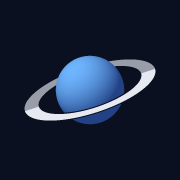
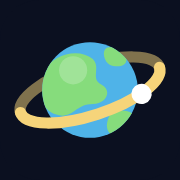
fix(game): 앱 아이콘을 사용자 파비콘 그림으로 맞추고, 업데이트 버튼은 "지금 업데이트"
- PNG 4개(192, 512, maskable 512, apple-touch 180)를 favicon.svg(ff36299, 사용자 요청)에서 다시 그렸다
- 그림이 다른 node:zlib 아이콘 스크립트는 뺐다. 만드는 법은 작업 기록 28-2040-pwa에
- favicon.svg도 미리 캐시에 넣는다(includeAssets)
- 버튼 문구는 korean-writing 규칙(버튼에 "~하기"류 안 붙임)에 맞췄다

Claude-Session: https://claude.ai/code/session_01PnZhNzUg4n6BbDPoRJcKA8

diff --git a/apps/game/vite.config.ts b/apps/game/vite.config.ts
@@ -28,7 +28,7 @@ export default defineConfig({
       registerType: "prompt",
       // 등록은 src/pwa/updates.ts에서 virtual:pwa-register로 직접 한다
       injectRegister: false,
-      includeAssets: ["favicon.ico", "apple-touch-icon-180x180.png"],
+      includeAssets: ["favicon.ico", "favicon.svg", "apple-touch-icon-180x180.png"],
       manifest: {
         id: "/",
         start_url: "/",
@@ -41,7 +41,7 @@ export default defineConfig({
         orientation: "any",
         theme_color: THEME_COLOR,
         background_color: THEME_COLOR,
-        // 임시 아이콘 — apps/game/scripts/placeholder-icons.mjs로 만든다
+        // 임시 아이콘 — public/favicon.svg에서 그린다(만드는 법: docs/worklog/2026/10/28-2040-pwa.md)
         icons: [
           { src: "pwa-192x192.png", sizes: "192x192", type: "image/png" },
           { src: "pwa-512x512.png", sizes: "512x512", type: "image/png" },

diff --git a/docs/worklog/2026/10/28-2040-pwa.md b/docs/worklog/2026/10/28-2040-pwa.md
@@ -10,7 +10,9 @@
   - `vite-plugin-pwa` `generateSW`. 캐시는 앱 껍데기만(JS·CSS·HTML·아이콘·manifest). 실행 중 캐시는 없다.
   - 화면 이동 대체(`index.html`)에서 `/api`·`/ws`·`/health`를 뺐다. 소셜 로그인 콜백이 화면 이동이라서다.
   - manifest 이름은 `messages/ko.json`에서 읽는다(`app_title`, 새 키 `app_short_name`·`app_description`).
-  - 임시 아이콘 5개를 `apps/game/public/`에 넣었다. 만드는 스크립트도 넣었다(`apps/game/scripts/placeholder-icons.mjs`, 의존성 없음).
+  - 임시 아이콘 4개(192, 512, maskable 512, apple-touch 180)를 `apps/game/public/`에 넣었다.
+    - 그림은 `favicon.svg`(행성 + 궤도 정거장 고리)에서 그렸다. 이 파비콘은 다른 세션("진행상황 체크")이 사용자 요청으로 먼저 올렸다(ff36299, 작업 기록 `28-2043-favicon.md`).
+    - 합칠 때 메인 세션이 다시 그렸다(2026-10-28 21:05). 처음 만든 node:zlib 아이콘 스크립트는 그림이 달라 빼고, `favicon.ico`·`favicon.svg`는 그 커밋 것을 그대로 쓴다.
 - 새 버전 적용 규칙을 만들었다(`apps/game/src/pwa/`).
   - 켤 때(새로 열기, 또는 30분 넘게 숨겼다가 다시 보기) 15초 안, 첫 터치·키 입력 전에 새 버전이 준비되면 바로 새로고침한다.
   - 그 밖에는 화면 아래 배너로 알린다(지금 바꾸기 / 나중에). "나중에"를 누른 버전은 다시 알리지 않고, 다음에 켤 때 바로 적용한다.
@@ -55,9 +57,8 @@
 |---|---|
 | `apps/game/vite.config.ts` | PWA 플러그인, 빌드 대상 하한 |
 | `apps/game/tsconfig.json` | `lib` ES2023, `virtual:pwa-register` 타입 |
-| `apps/game/index.html` | favicon·apple-touch-icon 링크 |
-| `apps/game/public/*` | 임시 아이콘(192, 512, maskable 512, apple-touch 180, favicon.ico 16·32·48) |
-| `apps/game/scripts/placeholder-icons.mjs` | 임시 아이콘 만들기(node:zlib만 씀) |
+| `apps/game/index.html` | apple-touch-icon 링크(favicon 링크 2줄은 ff36299) |
+| `apps/game/public/*.png` | 임시 앱 아이콘 4개(favicon.svg에서 그림) |
 | `apps/game/src/pwa/updatePolicy.ts`, `.test.ts` | 적용 규칙(순수 함수)과 시험 |
 | `apps/game/src/pwa/updates.ts` | SW 등록, 새 버전 확인·적용·강제 적용 |
 | `apps/game/src/pwa/UpdateBanner.tsx`, `src/styles.css` | 배너 |
@@ -69,8 +70,12 @@
 | `.github/workflows/ci.yml` | 빌드 뒤 검사, 이미지 점검 3줄 |
 
 ## 함께 바꿔야 하는 파일
-- 색을 바꾸면: `vite.config.ts`의 `THEME_COLOR`, `index.html`의 theme-color, `styles.css`, 아이콘 스크립트의 `BACKGROUND`. 검사가 manifest와 meta 불일치를 잡는다.
-- 아이콘을 바꾸면: `apps/game/public/`의 파일 이름을 유지하거나 `vite.config.ts`의 `icons`·`includeAssets`와 `index.html`을 함께 바꾼다.
+- 색을 바꾸면: `vite.config.ts`의 `THEME_COLOR`, `index.html`의 theme-color, `styles.css`, `favicon.svg` 바탕색과 아이콘. 검사가 manifest와 meta 불일치를 잡는다.
+- 아이콘을 바꾸면: `favicon.svg`를 고친 뒤 `favicon.ico`(작업 기록 `28-2043-favicon.md`의 방법)와 PNG 4개를 다시 만든다. 파일 이름을 바꾸면 `vite.config.ts`의 `icons`·`includeAssets`와 `index.html`도 바꾼다.
+  - PNG 만드는 법(Playwright Chromium, 저장소 밖 스크립트): `favicon.svg`를 크기대로 그려 스크린숏한다.
+    - `pwa-192x192.png`·`pwa-512x512.png`: 그림을 꽉 채우고 바탕은 투명.
+    - `apple-touch-icon-180x180.png`: 바탕 `#0b1020`(불투명), 그림 꽉 채움.
+    - `maskable-icon-512x512.png`: 바탕 `#0b1020`, 그림은 가운데 80% 크기(안전 영역 안).
 - 화면 이동 제외 경로를 바꾸면: `vite.config.ts`와 `scripts/pwa-build.mjs`의 `DENIED_NAVIGATIONS`·`ALLOWED_NAVIGATIONS`.
 - 게임 명령이 생기면: 새로고침 전에 보내기를 멈추고 응답을 잠깐(최대 2초) 기다리는 단계를 `closeForReload` 앞에 넣는다(ADR).
 
@@ -89,4 +94,4 @@
 - 이름·색·아이콘은 임시다. 디자인 시스템 ADR 때 바꾼다.
 
 ## 사용자 결정 대기
-- 없음. (버튼 문구 "지금 바꾸기"는 지시대로 썼다. `korean-writing`은 버튼에 "~하기"를 붙이지 말라고 한다. 바꾸려면 말해 달라.)
+- 없음. 버튼 문구는 `korean-writing` 규칙(버튼에 "~하기"류를 붙이지 않음)에 맞춰 합칠 때 "지금 업데이트"로 바꿨다.
